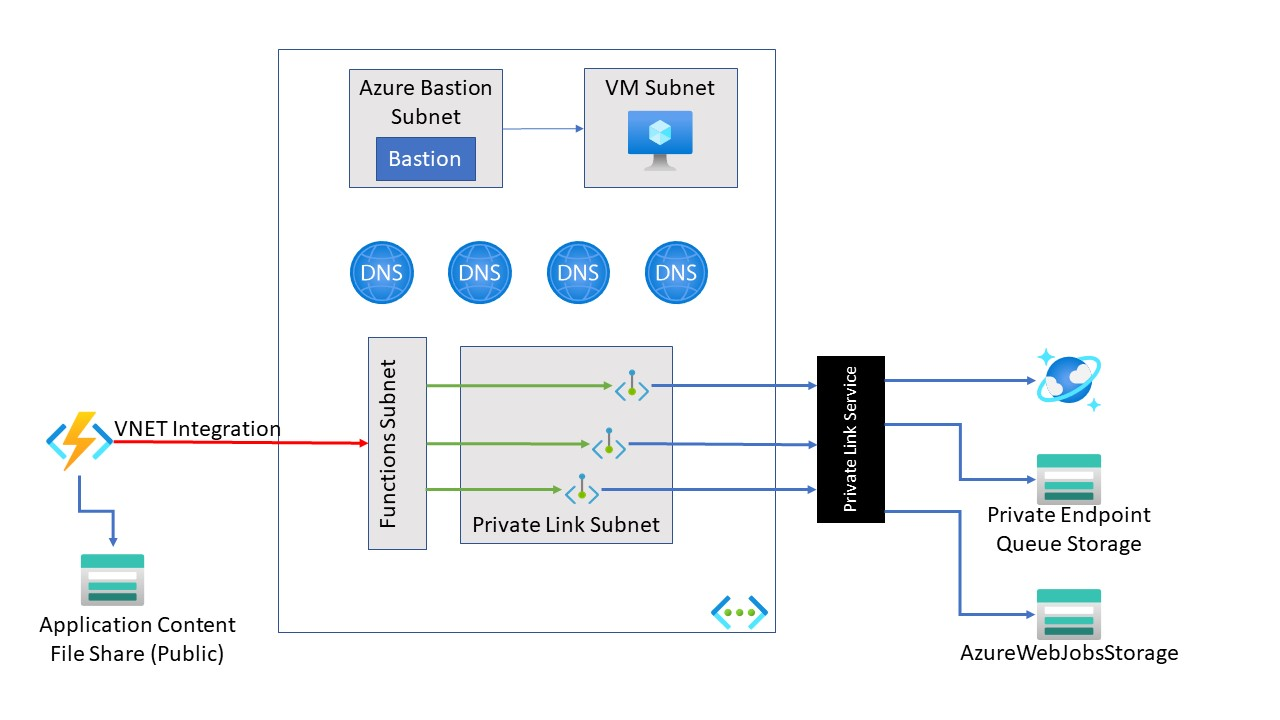
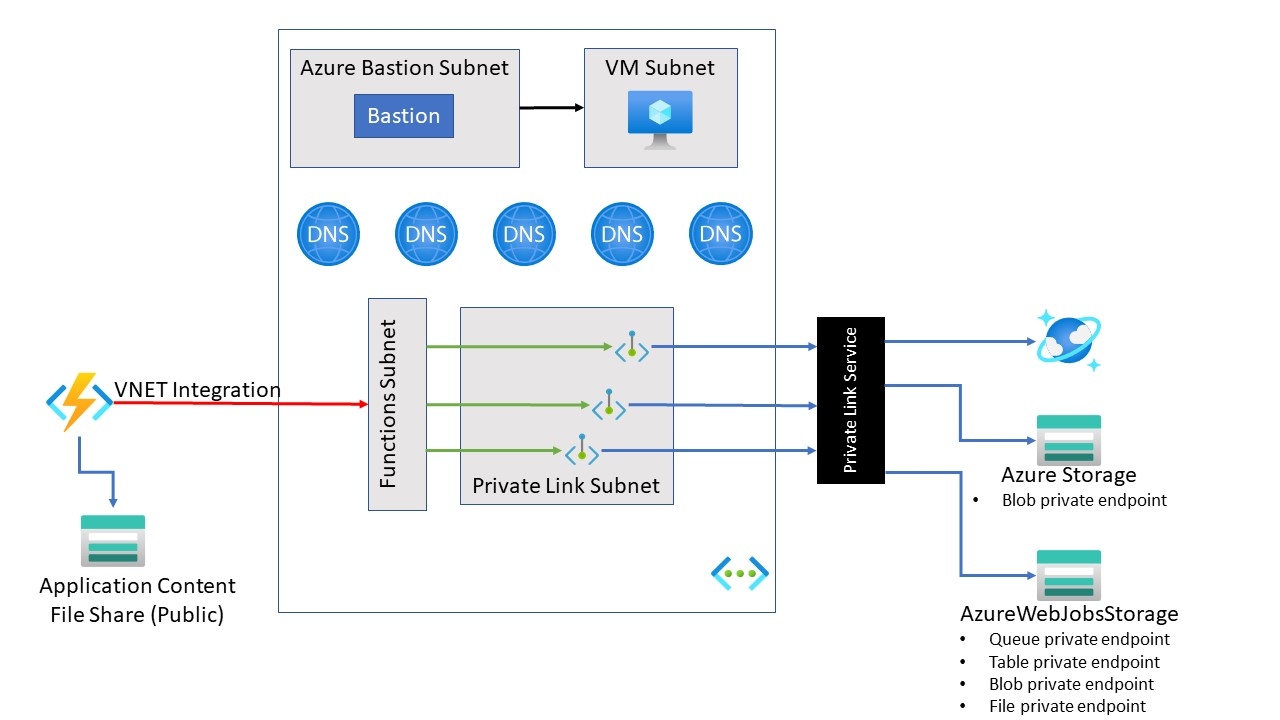
Template uses blob private endpoint.

Changed region(s): [[0.0312, 0.0611, 0.9375, 1.0], [0.5312, 0.7639, 0.5938, 0.8861]]

diff --git a/README.md b/README.md
@@ -19,10 +19,20 @@ It is currently not possible to use the storage account referenced by *AzureWebJ
 ### Prerequisites
 
 - Azure subscription. Get a free Azure account at [https://azure.microsoft.com/free/](https://azure.microsoft.com/free/).
+- [Azure CLI](https://docs.microsoft.com/cli/azure/install-azure-cli)
+- [Azure Functions Core Tools](https://docs.microsoft.com/azure/azure-functions/functions-run-local)
 
 ### Resource Manager Template
 
 Execute the [ARM template in the template directory](./template/azuredeploy.json).  A [script](./template/deploy.sh) is provided to deploy the template.
+
+The template will provision all the necessary Azure resources.  The template will also create the application settings needed by the included Azure Function sample code.  The function can optionally (disabled by default) publish the function.
+
+The function can be published manually by using the [Azure Functions Core Tools](https://docs.microsoft.com/azure/azure-functions/functions-run-local?tabs=linux%2Ccsharp%2Cbash#publish).
+
+```bash
+func azure functionapp publish <function-app-name>
+```
 
 ## Architecture Overview
 
@@ -47,15 +57,15 @@ The function is configured to [run from a deployment package](https://docs.micro
 
 There are four Azure Storage accounts used in this sample:
 
-- two storage accounts use a private endpoint
+- two storage accounts which use a private endpoint
   - a storage account used by the Azure Functions runtime for metadata (as referenced by the [AzureWebJobsStorage](https://docs.microsoft.com/azure/azure-functions/functions-app-settings#azurewebjobsstorage) setting).
-  - a storage account with a queue
+  - a storage account with a blob container (container created by the ARM template)
 - one storage account with no virtual network restrictions (indicated by the [WEBSITE_CONTENTAZUREFILECONNECTIONSTRING](https://docs.microsoft.com/azure/azure-functions/functions-app-settings#website_contentazurefileconnectionstring) setting) will contain the application code.
 - one storage account used by the VM for diagnostics
 
 ### Azure CosmosDB
 
-Azure CosmosDB is used to persist the data processed by the Azure Function.  An Azure Function output binding is used for writing the data to the configured database and collection.
+Azure CosmosDB is used to persist the data processed by the Azure Function.  An Azure Function output binding is used for writing the data to the configured database and collection.  The ARM template will create the CosmosDB database account and collection.
 
 A [private endpoint is created and configured for use with CosmosDB](https://docs.microsoft.com/azure/cosmos-db/how-to-configure-private-endpoints).
 
@@ -63,7 +73,7 @@ A [private endpoint is created and configured for use with CosmosDB](https://doc
 
 An Azure VM is created as a way to access the Azure resources from within the virtual network.  The VM has no public IP address nor port access (e.g. RDP).  [Azure Bastion](https://docs.microsoft.com/azure/bastion/bastion-overview) is used to connect to the VM.
 
-The included ARM template configures the VM to shut down each evening at 7pm Eastern.  This is done as a cost-savings measure.
+The included ARM template configures the VM to shut down each evening at 7pm UTC.  This is done as a cost-savings measure.
 
 ### Virtual Network
 
